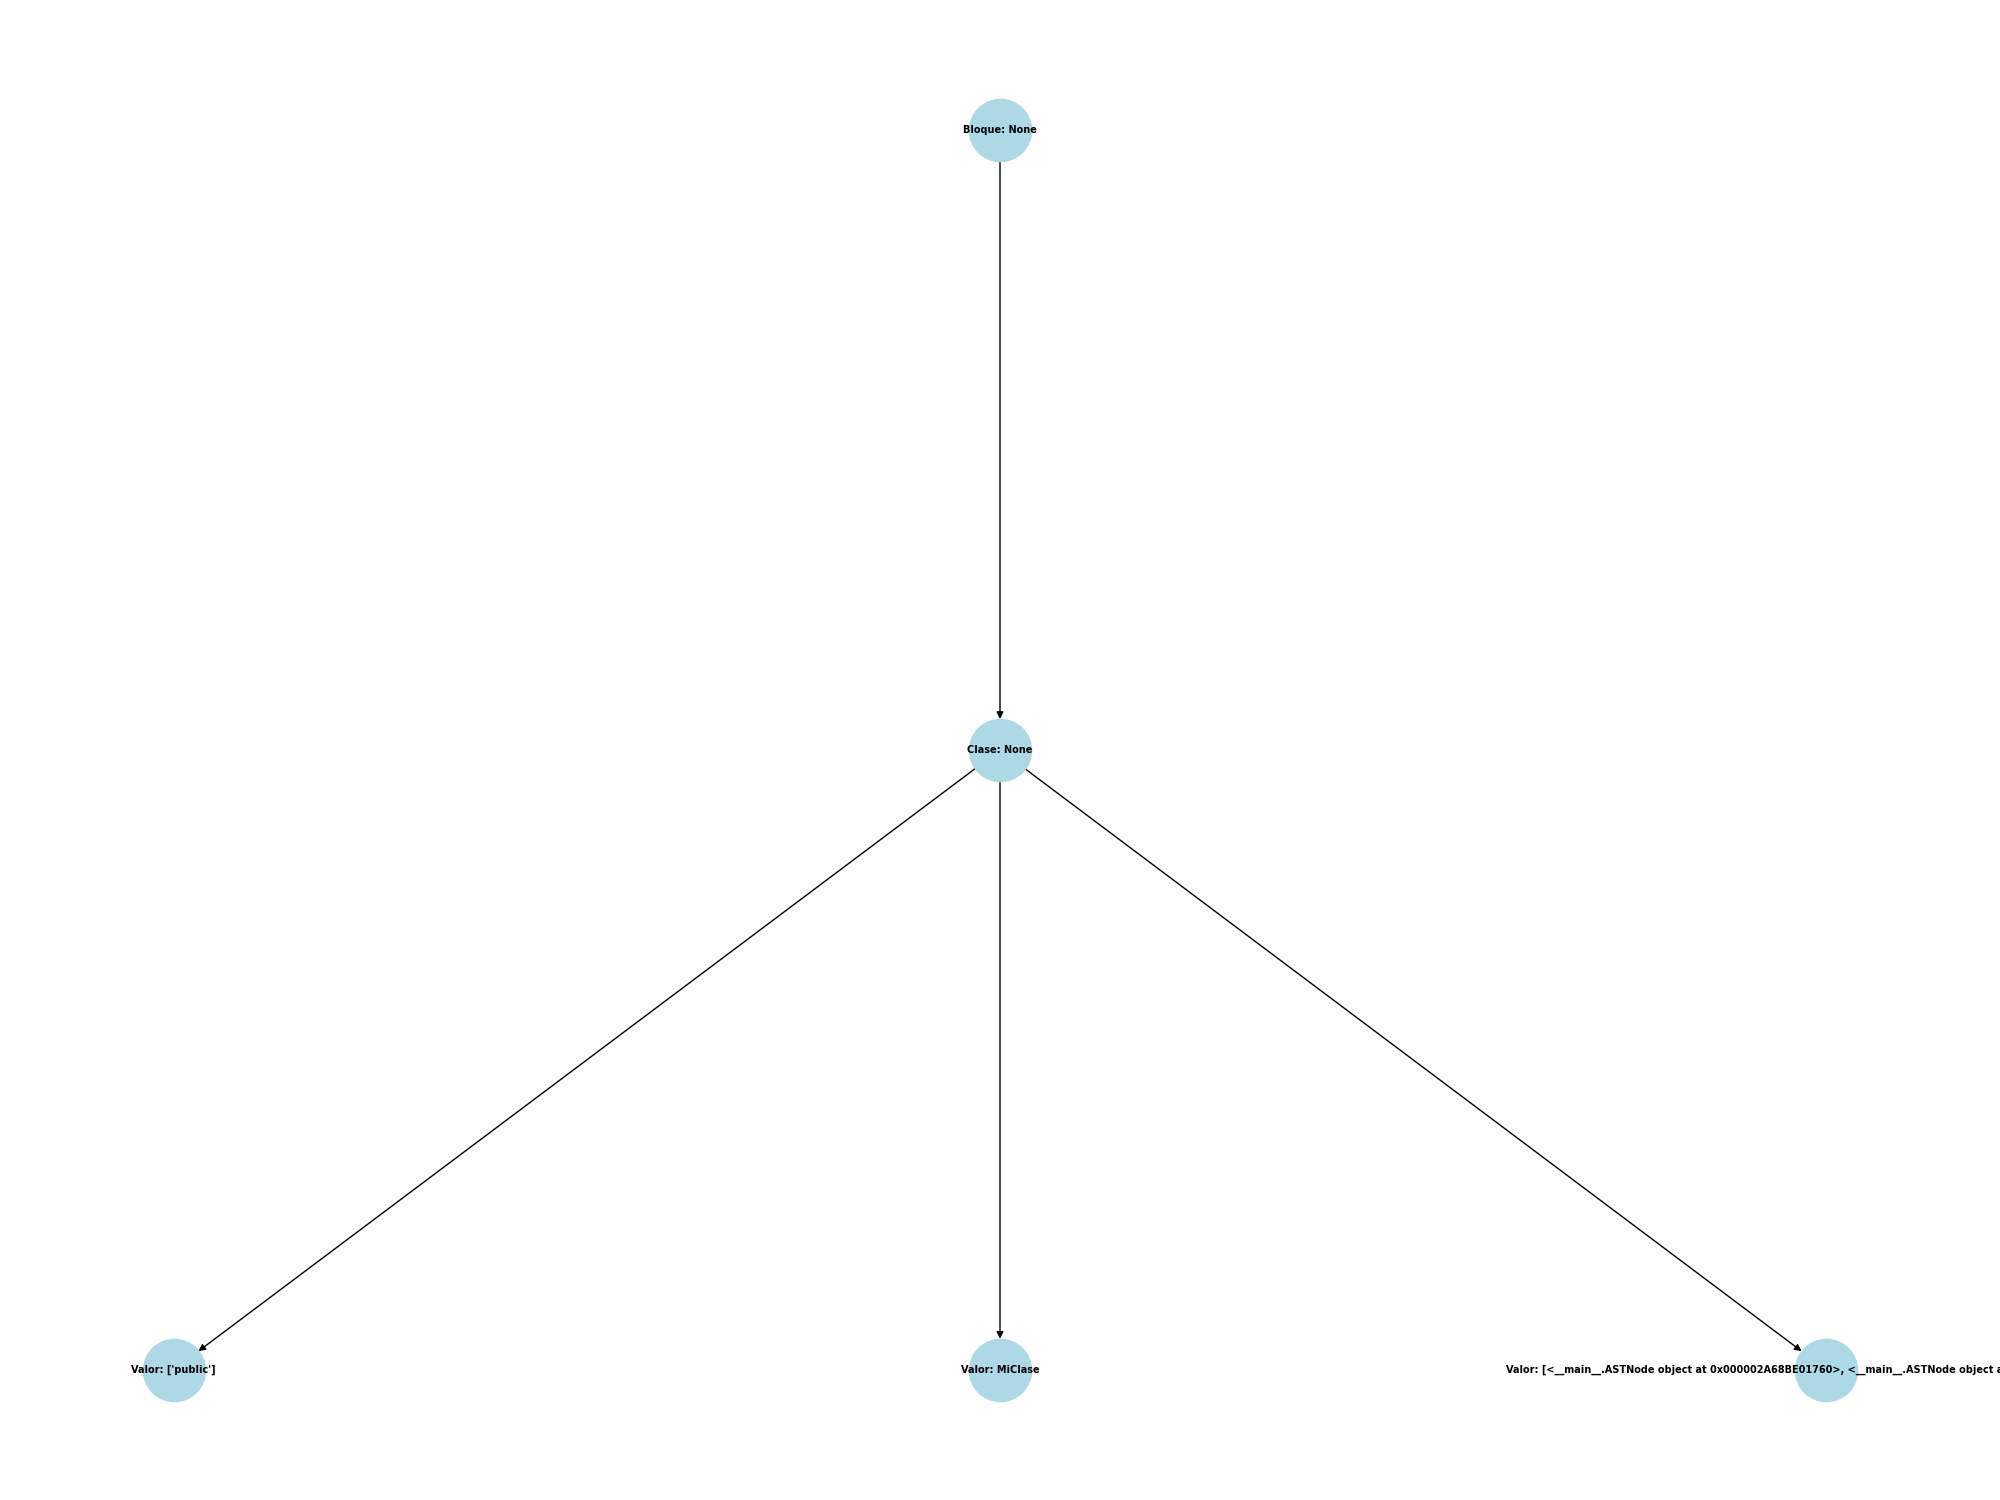
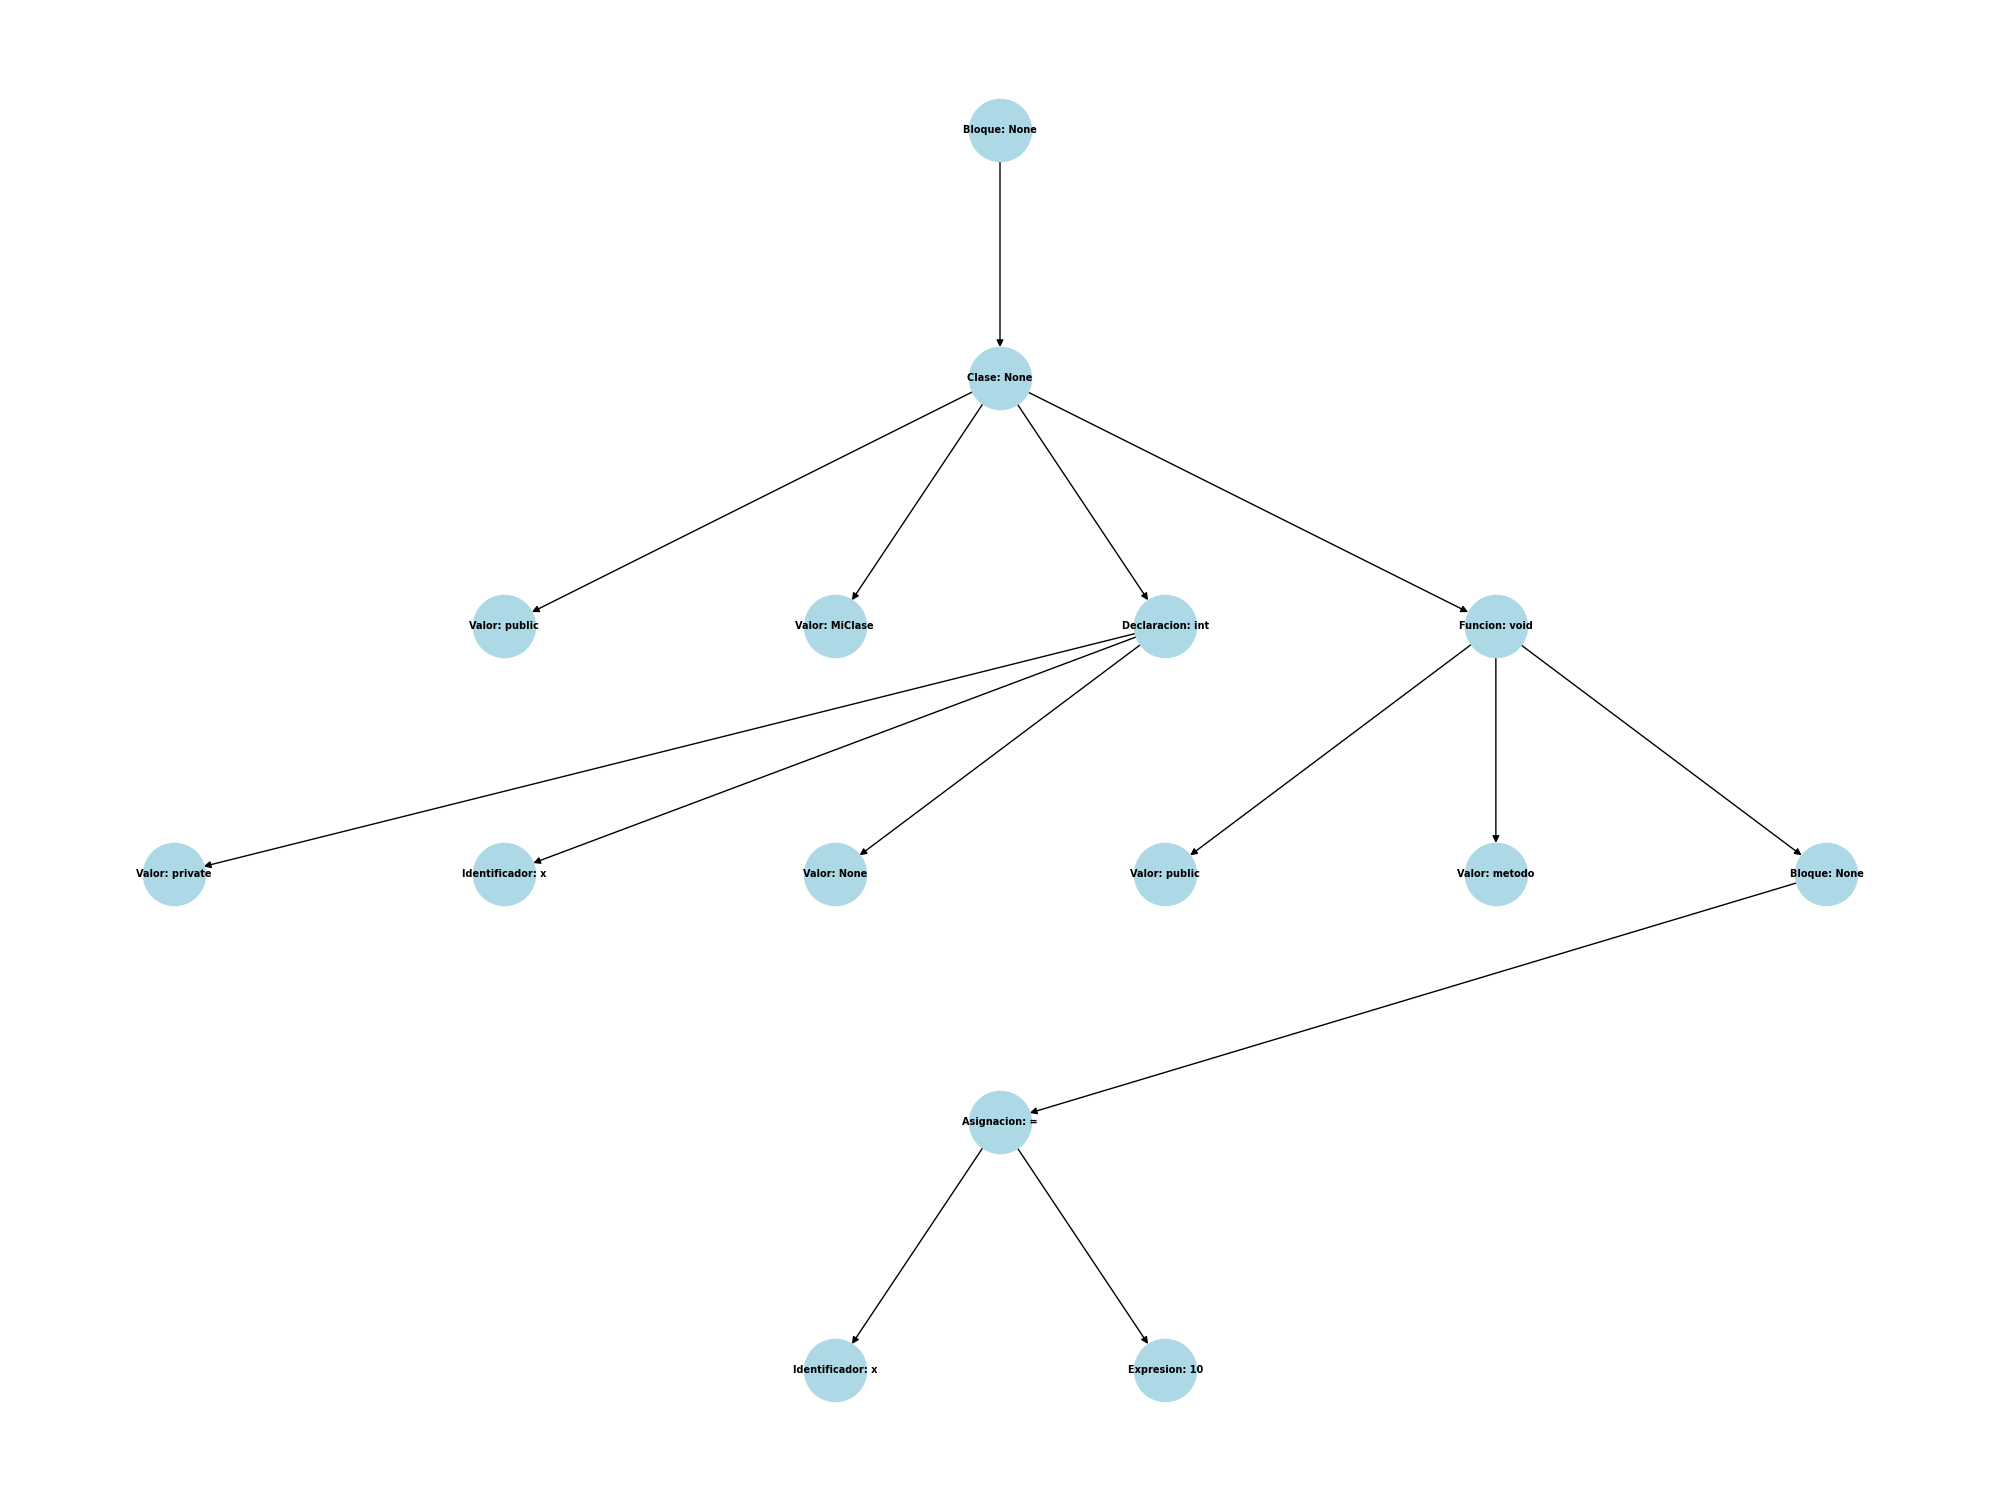
Error corregido, (a la hora de generar el arbol no se accedia de manera correcta a sus valores porque era de tipo ASTNode object)

diff --git a/analizador_sintactico.py b/analizador_sintactico.py
@@ -8,17 +8,30 @@ class ASTNode:
         self.hijos = hijos or []
 
     def __str__(self):
-        if isinstance(self.hijos, list) and self.hijos:
-            hijos_str = ", ".join(str(hijo) for hijo in self.hijos)
-            return f"{self.tipo}: {self.valor}, Hijos: [{hijos_str}]"
-        elif isinstance(self.hijos, ASTNode):
-            return f"{self.tipo}: {self.valor}, Hijo: [{str(self.hijos)}]"
+        # Convertir el valor a una cadena legible
+        valor_str = str(self.valor) if self.valor is not None else "None"
+        
+        # Convertir los hijos a una cadena legible
+        if isinstance(self.hijos, list):
+            hijos_str = ", ".join(self._convertir_hijo_a_str(hijo) for hijo in self.hijos)
         else:
-            return f"{self.tipo}: {self.valor}"
+            hijos_str = self._convertir_hijo_a_str(self.hijos)
+        
+        # Devolver la representación del nodo
+        return f"{self.tipo}: {valor_str}, Hijos: [{hijos_str}]"
+
+    def _convertir_hijo_a_str(self, hijo):
+        """Convierte un hijo a una cadena legible."""
+        if isinstance(hijo, ASTNode):
+            return str(hijo)  # Llamada recursiva para nodos hijos
+        elif isinstance(hijo, list):
+            return ", ".join(self._convertir_hijo_a_str(item) for item in hijo)
+        else:
+            return str(hijo)  # Convertir otros tipos a cadena
 
     def graficar(self, parent_id=None, node_count=0, nodes=[], edges=[], level=0):
         node_id = node_count
-        nodes.append((node_id, f"{self.tipo}: {str(self.valor)}"))
+        nodes.append((node_id, f"{self.tipo}: {str(self.valor) if self.valor is not None else 'None'}"))
 
         if parent_id is not None:
             edges.append((parent_id, node_id))
@@ -30,13 +43,29 @@ class ASTNode:
 
         for hijo in self.hijos:
             if isinstance(hijo, ASTNode):
+                # Si el hijo es un nodo AST, lo procesamos normalmente
                 node_count = hijo.graficar(parent_id=node_id, node_count=node_count, nodes=nodes, edges=edges, level=level + 1)
+            elif isinstance(hijo, list):  
+                # Si el hijo es una lista, iteramos sobre sus elementos
+                for subhijo in hijo:
+                    if isinstance(subhijo, ASTNode):
+                        node_count = subhijo.graficar(parent_id=node_id, node_count=node_count, nodes=nodes, edges=edges, level=level + 1)
+                    else:
+                        # Si el subhijo no es un nodo AST, lo agregamos como valor
+                        valor_str = str(subhijo) if subhijo is not None else "None"
+                        nodes.append((node_count, f"Valor: {valor_str}"))
+                        edges.append((node_id, node_count))
+                        node_count += 1
             else:
-                nodes.append((node_count, f"Valor: {hijo}"))
+                # Si el hijo es un valor primitivo (string, número, etc.), lo agregamos directamente
+                valor_str = str(hijo) if hijo is not None else "None"
+                nodes.append((node_count, f"Valor: {valor_str}"))
                 edges.append((node_id, node_count))
                 node_count += 1
 
         return node_count
+
+
 
     def graficar_mpl(self, output_filename="arbol_sintactico.png"):
         nodes = []
@@ -65,7 +94,7 @@ class ASTNode:
 
         # Guardar la imagen
         plt.savefig(output_filename, format="PNG")
-        #plt.show()
+        plt.show()
         print(f"Árbol guardado como imagen: {output_filename}")
 
 
@@ -829,6 +858,8 @@ class Parser:
             ast = self.parse_instrucciones()
 
             print("AST Generado:", ast)
+            print("")
+            print(ast.hijos)
 
             # Comprobamos si hemos procesado todos los tokens
             if self.current_token_index < len(self.tokens):
